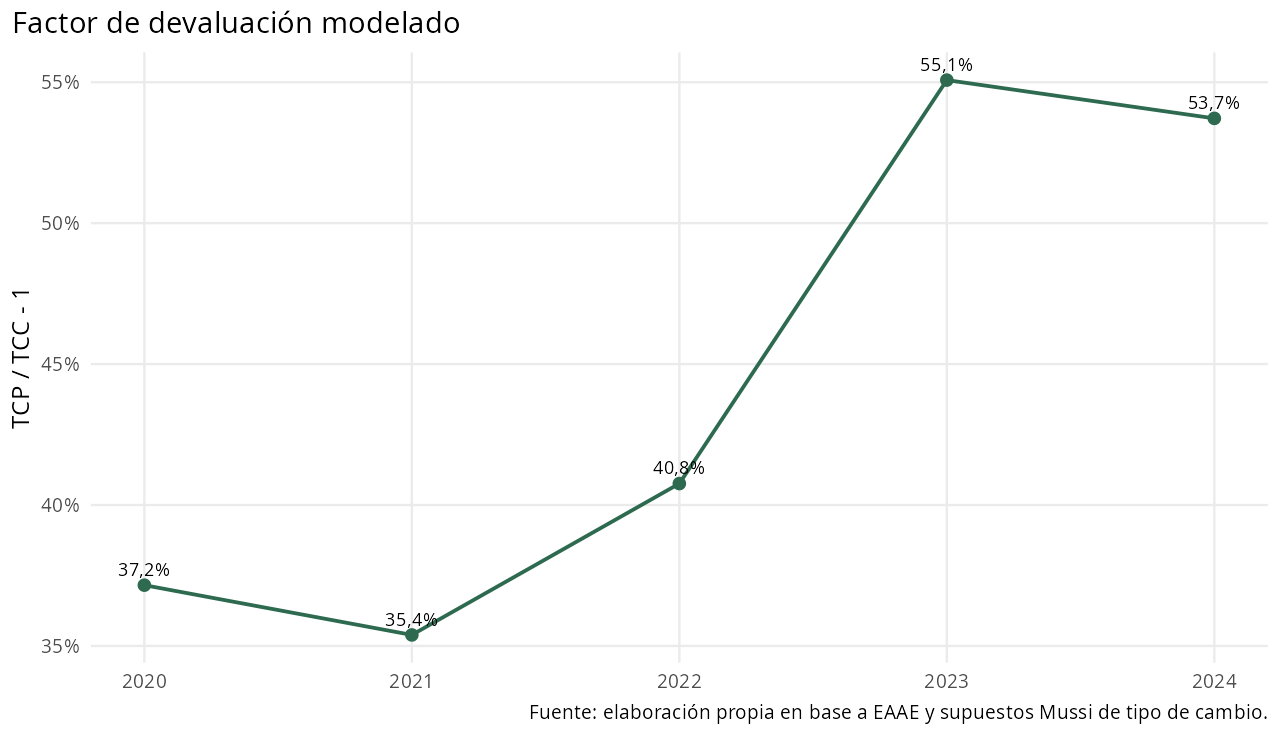
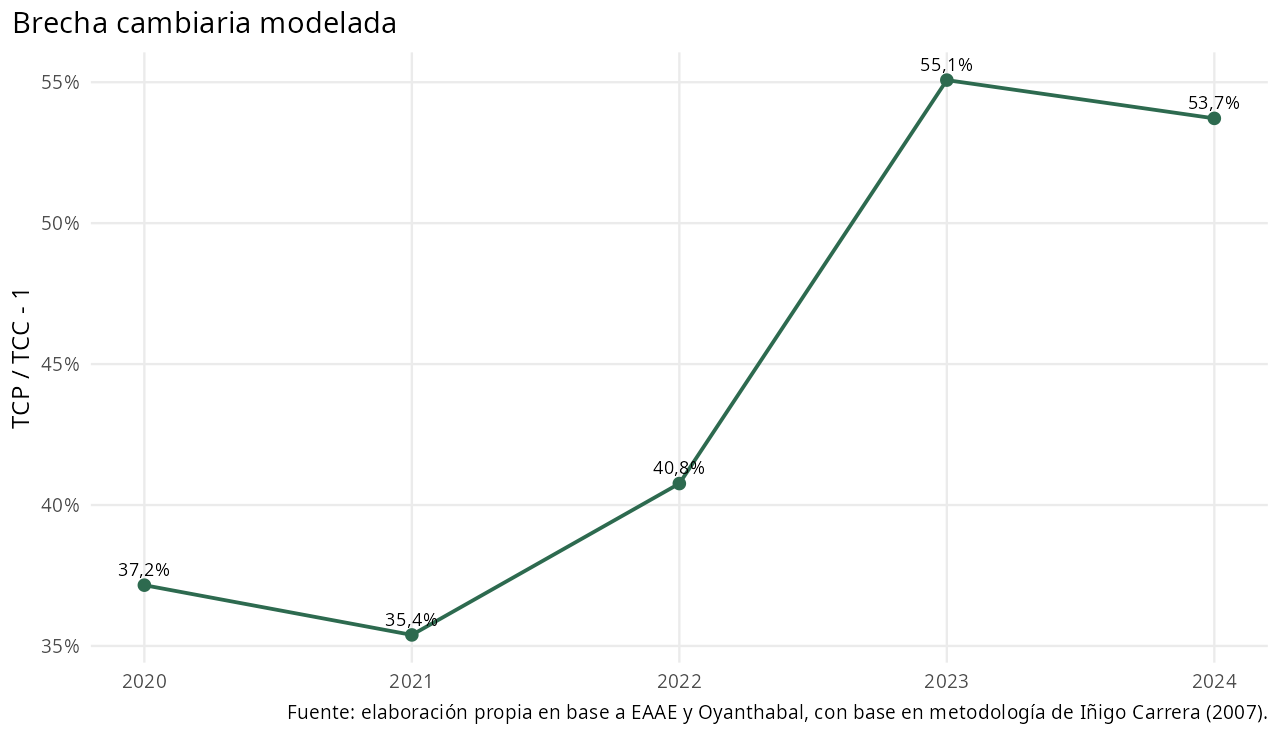
ajuste minuta devaluación

Changed region(s): [[0.25, 0.9375, 1.0, 1.0], [0.0, 0.0, 0.3438, 0.0625]]

diff --git a/docs/minutes/20260826_resultados_devaluacion_industria_segmentos.md b/docs/minutes/20260826_resultados_devaluacion_industria_segmentos.md
@@ -1,59 +1,89 @@
-# Efectos diferenciados de una devaluación sobre la industria manufacturera uruguaya, 2020-2024
+# Apropiación de riqueza por sobrevaluación cambiaria en la industria manufacturera uruguaya, 2020-2024
 
 Fuente de trabajo: `data/analysis-data/20260826_panel_eaae_2020_2024_industria_escenario_devaluacion.xlsx`, hojas `escenario-inicial`, `tipo-cambio` y `devaluación-1`.
 
 ## Síntesis
 
-El ejercicio compara los resultados corrientes observados de la industria manufacturera con un escenario en el que el tipo de cambio pasa desde el nivel comercial al nivel de paridad. La simulación no modifica cantidades, productividad ni estructura productiva; aplica coeficientes de incidencia sobre componentes monetarios para estimar un impacto contable de corto plazo.
+El ejercicio dimensiona la apropiación de riqueza asociada a sostener un tipo de cambio comercial por debajo del tipo de cambio de paridad. Para ello compara los resultados corrientes observados de la industria manufacturera con un contrafactual anual en el que las magnitudes sensibles al tipo de cambio se valoran con la paridad. La simulación no modifica cantidades, productividad ni estructura productiva; aplica coeficientes de incidencia sobre componentes monetarios para estimar un impacto contable de corto plazo.
 
-Con coeficientes diferenciados por sección, el resultado central es una fractura interna dentro de la manufactura. La industria total aumenta su tasa de ganancia a precios básicos, pero ese resultado es arrastrado por el segmento exportador. En 2024, el segmento exportador pasa de 14,4% a 32,6%, mientras que el segmento mercado interno cae de 17,4% a 11,5%.
+Las fuentes usadas son: EAAE para VBP, VAB, remuneraciones, consumo intermedio estimado, consumo de capital fijo, stock de capital y capital adelantado; Oyanthabal, con base en la metodología de Iñigo Carrera (2007), para los tipos de cambio comercial/paridad y los coeficientes de incidencia del ejercicio; y la clasificación operativa de subramas industriales 2020-2024 usada para separar industria exportadora, mercado interno y combustible.
+
+Se trabaja desde 2020 porque en ese tramo la fuente opera con ramas homogéneas. Extender el ejercicio al panel completo exigiría procesar distintas versiones CIIU, lo que vuelve incompatible diferenciar con criterio uniforme el segmento industrial exportador y el segmento orientado al mercado interno. Complementariamente, el período 2020-2024 es razonable para una lectura en valores corrientes porque evita grandes saltos de nivel asociados a cambios clasificatorios.
+
+Con coeficientes diferenciados por sección, el resultado central es una fractura interna dentro de la manufactura. Bajo el contrafactual de paridad, la industria total aumenta su tasa de ganancia a precios básicos, pero ese resultado es arrastrado por el segmento exportador. En 2024, el segmento exportador pasa de 14,4% a 32,6%, mientras que el segmento mercado interno cae de 17,4% a 11,5%.
 
 ## Supuestos y escenarios
 
 - `escenario-inicial` contiene los valores corrientes observados para industria total, segmento exportador y segmento mercado interno.
-- `devaluación-1` recalcula los componentes mediante `factor_devaluacion = tipo_cambio_paridad_pesos_usd / tipo_cambio_comercial_pesos_usd - 1`.
-- El canal positivo se modela sobre `vbp_pp`; los canales de costo o requerimiento adicional se modelan sobre consumo intermedio, remuneraciones, consumo de capital fijo, stock imputado e intereses.
+- `devaluación-1` mantiene el nombre técnico de la hoja, pero analíticamente se interpreta como cierre anual de la brecha entre tipo de cambio comercial y tipo de cambio de paridad.
+- El cálculo se realiza año a año mediante `factor_devaluacion = tipo_cambio_paridad_pesos_usd / tipo_cambio_comercial_pesos_usd - 1`; no contempla efectos acumulados ni respuestas dinámicas de cantidades, precios relativos o productividad.
+- Desde otro punto de vista, el mismo ejercicio permite dimensionar el efecto que tiene sostener un tipo de cambio sobrevaluado sobre la apropiación de riqueza por parte de la industria.
+- El canal positivo se modela sobre `vbp_pp` como `VBP/exportador`; los canales negativos se modelan sobre consumo intermedio, remuneraciones, consumo de capital fijo, stock imputado e intereses pagados.
 - Los intereses industriales son una serie agregada de manufactura y se distribuyen por segmento según participación en `vbp_pp`.
-- El grupo `combustible` queda fuera del libro de resultados y de esta minuta; se conserva sólo en el panel CSV para trazabilidad contable.
+- El grupo `combustible` no se presenta como segmento autónomo en el libro de resultados ni en esta minuta; queda incorporado en la industria total y se conserva en el panel CSV para trazabilidad contable.
 
-![Factor de devaluación modelado](../../output/figures/devaluacion_industria_segmentos_20260826/01_factor_devaluacion_2020_2024.png)
+Ramas incluidas en el segmento exportador:
+- 10: Elaboración de productos alimenticios
+- 11 y 12: Elaboración de bebidas y elaboración de productos de tabaco
+- 13: Fabricación de productos textiles
+- 15: Fabricación de cueros y productos conexos
+- 16: Producción de madera y fabricación de productos de madera y corcho, excepto muebles
+- 17: Fabricación de papel y de los productos de papel
+- 22: Fabricación de productos de caucho y plástico
+
+Ramas incluidas en el segmento mercado interno:
+- 14: Fabricación de prendas de vestir
+- 18: Actividades de impresión y reproducción de grabaciones
+- 20: Fabricación de sustancias y productos químicos
+- 21: Fabricación de productos farmacéuticos, sustancias químicas medicinales y de productos botánicos
+- 23: Fabricación de otros productos minerales no metálicos
+- 24: Fabricación de metales comunes
+- 25: Fabricación de productos derivados del metal, excepto maquinaria y equipo
+- 26 y 27: Fabricación de los productos informáticos, electrónicos y ópticos. Fabricación de equipo eléctrico
+- 28: Fabricación de maquinaria y equipo n.c.p
+- 29 y 30: Fabricación de vehículos automotores, remolques y semirremolques. Fabricación de otros tipos de equipo de transporte
+- 31: Fabricación de muebles
+- 32: Otras industrias manufactureras
+- 33: Reparación e instalación de la maquinaria y equipo
+
+![Brecha cambiaria modelada](../../output/figures/devaluacion_industria_segmentos_20260826/01_factor_devaluacion_2020_2024.png)
 
 ## Coeficientes de incidencia
 
-La diferencia principal frente a ejercicios anteriores es que los coeficientes ya no son únicos para toda la manufactura. La industria total conserva los coeficientes previos, mientras que los segmentos exportador y mercado interno toman coeficientes específicos. Esto permite que el mismo shock cambiario tenga efectos distintos según orientación comercial y estructura de costos.
+Los coeficientes indican qué proporción de cada variable queda expuesta al cierre de la brecha cambiaria. Desde el punto de vista del contrafactual de paridad, `VBP/exportador` tiene signo positivo para la ganancia, porque eleva la valorización de ventas asociadas al tipo de cambio. En cambio, consumo intermedio, masa salarial, consumo de capital fijo e intereses pagados operan como gastos o costos; el stock imputado afecta negativamente la tasa porque eleva el capital adelantado.
 
 ![Coeficientes de incidencia por segmento](../../output/figures/devaluacion_industria_segmentos_20260826/02_coeficientes_incidencia_segmentos.png)
 
-| Sección | Variable afectada | Incidencia |
-| --- | --- | --- |
-| Industria total | Consumo capital fijo | 1,7% |
-| Industria total | Consumo intermedio | 18,9% |
-| Industria total | Intereses | 8,5% |
-| Industria total | Masa salarial | 9,3% |
-| Industria total | Stock imputado | 3,7% |
-| Industria total | VBP | 33,3% |
-| Mercado interno | Consumo capital fijo | 1,1% |
-| Mercado interno | Consumo intermedio | 22,7% |
-| Mercado interno | Intereses | 8,5% |
-| Mercado interno | Masa salarial | 9,3% |
-| Mercado interno | Stock imputado | 1,8% |
-| Mercado interno | VBP | 10,7% |
-| Segmento exportador | Consumo capital fijo | 0,8% |
-| Segmento exportador | Consumo intermedio | 18,1% |
-| Segmento exportador | Intereses | 8,5% |
-| Segmento exportador | Masa salarial | 9,3% |
-| Segmento exportador | Stock imputado | 0,9% |
-| Segmento exportador | VBP | 42,0% |
+| Sección | Variable afectada | Incidencia | Efecto contable ante paridad |
+| --- | --- | --- | --- |
+| Industria total | Consumo capital fijo | 1,7% | Negativo: eleva costos o gastos |
+| Industria total | Consumo intermedio | 18,9% | Negativo: eleva costos o gastos |
+| Industria total | Intereses pagados | 8,5% | Negativo: eleva costos o gastos |
+| Industria total | Masa salarial | 9,3% | Negativo: eleva costos o gastos |
+| Industria total | Stock imputado | 3,7% | Negativo: eleva capital adelantado |
+| Industria total | VBP/exportador | 33,3% | Positivo para la ganancia |
+| Mercado interno | Consumo capital fijo | 1,1% | Negativo: eleva costos o gastos |
+| Mercado interno | Consumo intermedio | 22,7% | Negativo: eleva costos o gastos |
+| Mercado interno | Intereses pagados | 8,5% | Negativo: eleva costos o gastos |
+| Mercado interno | Masa salarial | 9,3% | Negativo: eleva costos o gastos |
+| Mercado interno | Stock imputado | 1,8% | Negativo: eleva capital adelantado |
+| Mercado interno | VBP/exportador | 10,7% | Positivo para la ganancia |
+| Segmento exportador | Consumo capital fijo | 0,8% | Negativo: eleva costos o gastos |
+| Segmento exportador | Consumo intermedio | 18,1% | Negativo: eleva costos o gastos |
+| Segmento exportador | Intereses pagados | 8,5% | Negativo: eleva costos o gastos |
+| Segmento exportador | Masa salarial | 9,3% | Negativo: eleva costos o gastos |
+| Segmento exportador | Stock imputado | 0,9% | Negativo: eleva capital adelantado |
+| Segmento exportador | VBP/exportador | 42,0% | Positivo para la ganancia |
 
 ## Resultados principales
 
-La tasa de ganancia a precios básicos de la industria total aumenta en promedio +10,6 pp entre 2020 y 2024. En el segmento exportador el aumento promedio es +15,5 pp. En cambio, el segmento mercado interno muestra una variación promedio de -4,8 pp, lo que indica que el encarecimiento de costos supera el impulso positivo sobre el VBP.
+La tasa de ganancia a precios básicos de la industria total aumenta en promedio +10,6 pp entre 2020 y 2024. En el segmento exportador el aumento promedio es +15,5 pp. En cambio, el segmento mercado interno muestra una variación promedio de -4,8 pp, lo que indica que el encarecimiento de costos supera el impulso positivo sobre el VBP/exportador.
 
 ![Tasa de ganancia a precios básicos](../../output/figures/devaluacion_industria_segmentos_20260826/03_tasa_ganancia_base_devaluacion.png)
 
 ![Cambio en tasa de ganancia](../../output/figures/devaluacion_industria_segmentos_20260826/04_variacion_tasa_ganancia_pp.png)
 
-| Sección | TG base prom. | TG devaluada prom. | Cambio prom. | TG base 2024 | TG devaluada 2024 | Cambio 2024 | Var. ganancia 2024 |
+| Sección | TG base prom. | TG paridad prom. | Cambio prom. | TG base 2024 | TG paridad 2024 | Cambio 2024 | Var. ganancia 2024 |
 | --- | --- | --- | --- | --- | --- | --- | --- |
 | Segmento exportador | 14,8% | 30,3% | +15,5 pp | 14,4% | 32,6% | +18,2 pp | 131,9% |
 | Industria total | 15,4% | 26,0% | +10,6 pp | 12,7% | 25,0% | +12,4 pp | 105,8% |
@@ -61,11 +91,11 @@ La tasa de ganancia a precios básicos de la industria total aumenta en promedio
 
 ## Mecanismo de transmisión en 2024
 
-En 2024, el aumento de `vbp_pp` es el principal canal positivo. Para la industria total equivale a 153,5 miles de millones de pesos corrientes. Ese impulso se compensa parcialmente por el aumento de consumo intermedio, remuneraciones, consumo de capital fijo, stock imputado e intereses. La asimetría por segmento es clara: el segmento exportador capta la mayor parte del impulso por VBP, mientras que en mercado interno el aumento de costos queda por encima del impulso de ventas.
+En 2024, el aumento de `vbp_pp` es el principal canal positivo. El gráfico y el cuadro expresan los deltas en miles de millones de pesos corrientes. Para la industria total equivale a 153,5 miles de millones de pesos corrientes. Ese impulso se compensa parcialmente por el aumento de consumo intermedio, remuneraciones, consumo de capital fijo, stock imputado e intereses pagados. La asimetría por segmento es clara: el segmento exportador capta la mayor parte del impulso por VBP/exportador, mientras que en mercado interno el aumento de costos queda por encima del impulso de ventas.
 
 ![Descomposición del efecto en 2024](../../output/figures/devaluacion_industria_segmentos_20260826/05_descomposicion_efecto_2024.png)
 
-| Sección | Delta VBP | Delta CI | Delta remuneraciones | Delta CCF | Delta stock | Delta intereses |
+| Sección | Delta VBP/exportador | Delta CI | Delta remuneraciones | Delta CCF | Delta stock | Delta intereses pagados |
 | --- | --- | --- | --- | --- | --- | --- |
 | Industria total | 153,5 | 64,9 | 5,6 | 0,25 | 8,7 | 0,26 |
 | Segmento exportador | 132,8 | 41,8 | 3,6 | 0,09 | 1,6 | 0,18 |
@@ -73,24 +103,26 @@ En 2024, el aumento de `vbp_pp` es el principal canal positivo. Para la industri
 
 ## Contribución relativa de los segmentos
 
-La lectura por participaciones muestra que, en 2024, el segmento exportador explica 86,5% del delta de VBP de la industria total, frente a 6,9% del segmento mercado interno. Esta concentración explica por qué la mejora agregada de la industria total no debe leerse como un efecto homogéneo para toda la manufactura.
+La lectura por participaciones muestra que, en 2024, el segmento exportador explica 86,5% del delta de VBP/exportador de la industria total, frente a 6,9% del segmento mercado interno. Esta concentración explica por qué la mejora agregada de la industria total no debe leerse como un efecto homogéneo para toda la manufactura.
+
+En magnitudes de 2024, el VBP/exportador de la industria total aumenta 153,5 miles de millones de pesos corrientes, mientras los gastos modelados aumentan 71,1 y el stock imputado aumenta 8,7. En el segmento exportador, el aumento de VBP/exportador es 132,8 frente a gastos por 45,6 y stock por 1,6. En mercado interno, el VBP/exportador aumenta 10,5, pero los gastos aumentan 16,7 y el stock 0,6.
 
 ![Participación de segmentos en los deltas 2024](../../output/figures/devaluacion_industria_segmentos_20260826/06_participacion_segmentos_deltas_2024.png)
 
 | Componente | Exportador / industria total | Mercado interno / industria total |
 | --- | --- | --- |
-| VBP | 86,5% | 6,9% |
+| VBP/exportador | 86,5% | 6,9% |
 | Consumo intermedio | 64,4% | 22,9% |
 | Remuneraciones | 63,2% | 31,8% |
 | Consumo capital fijo | 35,1% | 11,4% |
 | Stock imputado | 19,0% | 6,7% |
-| Intereses | 68,6% | 21,3% |
+| Intereses pagados | 68,6% | 21,3% |
 
 ## Interpretación
 
-La simulación sugiere que una devaluación de esta magnitud redistribuye condiciones de rentabilidad dentro de la industria. Para el segmento exportador, el aumento del VBP en pesos domina el encarecimiento de costos y eleva con fuerza la tasa de ganancia. Para el segmento mercado interno, la menor incidencia del canal VBP y la mayor presión relativa de costos producen una caída de la rentabilidad.
+La simulación sugiere que la sobrevaluación cambiaria redistribuye condiciones de rentabilidad dentro de la industria. Para el segmento exportador, cerrar la brecha con la paridad elevaría el VBP en pesos por encima del encarecimiento de costos y aumentaría con fuerza la tasa de ganancia. Desde la lectura inversa, sostener el tipo de cambio comercial sobrevaluado reduce esa apropiación potencial. Para el segmento mercado interno, la menor incidencia del canal VBP y la mayor presión relativa de costos implican que el cierre de la brecha deteriora la rentabilidad.
 
-Por lo tanto, el resultado agregado de la industria total debe interpretarse con cautela: expresa una mejora promedio, pero esa mejora proviene de una composición sectorial desigual. La devaluación no opera como estímulo general equivalente para toda la manufactura, sino como un shock que beneficia principalmente a los grupos con mayor capacidad de valorización en moneda extranjera.
+Por lo tanto, el resultado agregado de la industria total debe interpretarse con cautela: expresa una mejora promedio bajo paridad, pero esa mejora proviene de una composición sectorial desigual. La sobrevaluación no afecta de manera equivalente a toda la manufactura: limita especialmente la valorización del segmento exportador y, al mismo tiempo, contiene costos para actividades más orientadas al mercado interno.
 
 ## Anexo técnico
 
@@ -102,7 +134,7 @@ variable_devaluacion = variable_base + delta_variable
 factor_devaluacion = tipo_cambio_paridad_pesos_usd / tipo_cambio_comercial_pesos_usd - 1
 ```
 
-La ganancia a precios básicos bajo devaluación se calcula como:
+La ganancia a precios básicos bajo cierre de brecha/paridad se calcula como:
 
 ```text
 ganancia_pb_devaluacion =
@@ -110,7 +142,7 @@ ganancia_pb_devaluacion =
   delta_remuneraciones - delta_consumo_capital_fijo
 ```
 
-El capital total adelantado bajo devaluación incorpora el cambio en stock imputado y en capital circulante:
+El capital total adelantado bajo cierre de brecha/paridad incorpora el cambio en stock imputado y en capital circulante:
 
 ```text
 capital_total_adelantado_devaluacion =
@@ -118,7 +150,7 @@ capital_total_adelantado_devaluacion =
   (delta_remuneraciones + delta_consumo_intermedio_estimado) / rotacion_calibrada_sobre_6_6
 ```
 
-La tasa de ganancia a precios básicos bajo devaluación se calcula como:
+La tasa de ganancia a precios básicos bajo cierre de brecha/paridad se calcula como:
 
 ```text
 tasa_ganancia_pb_devaluacion =
